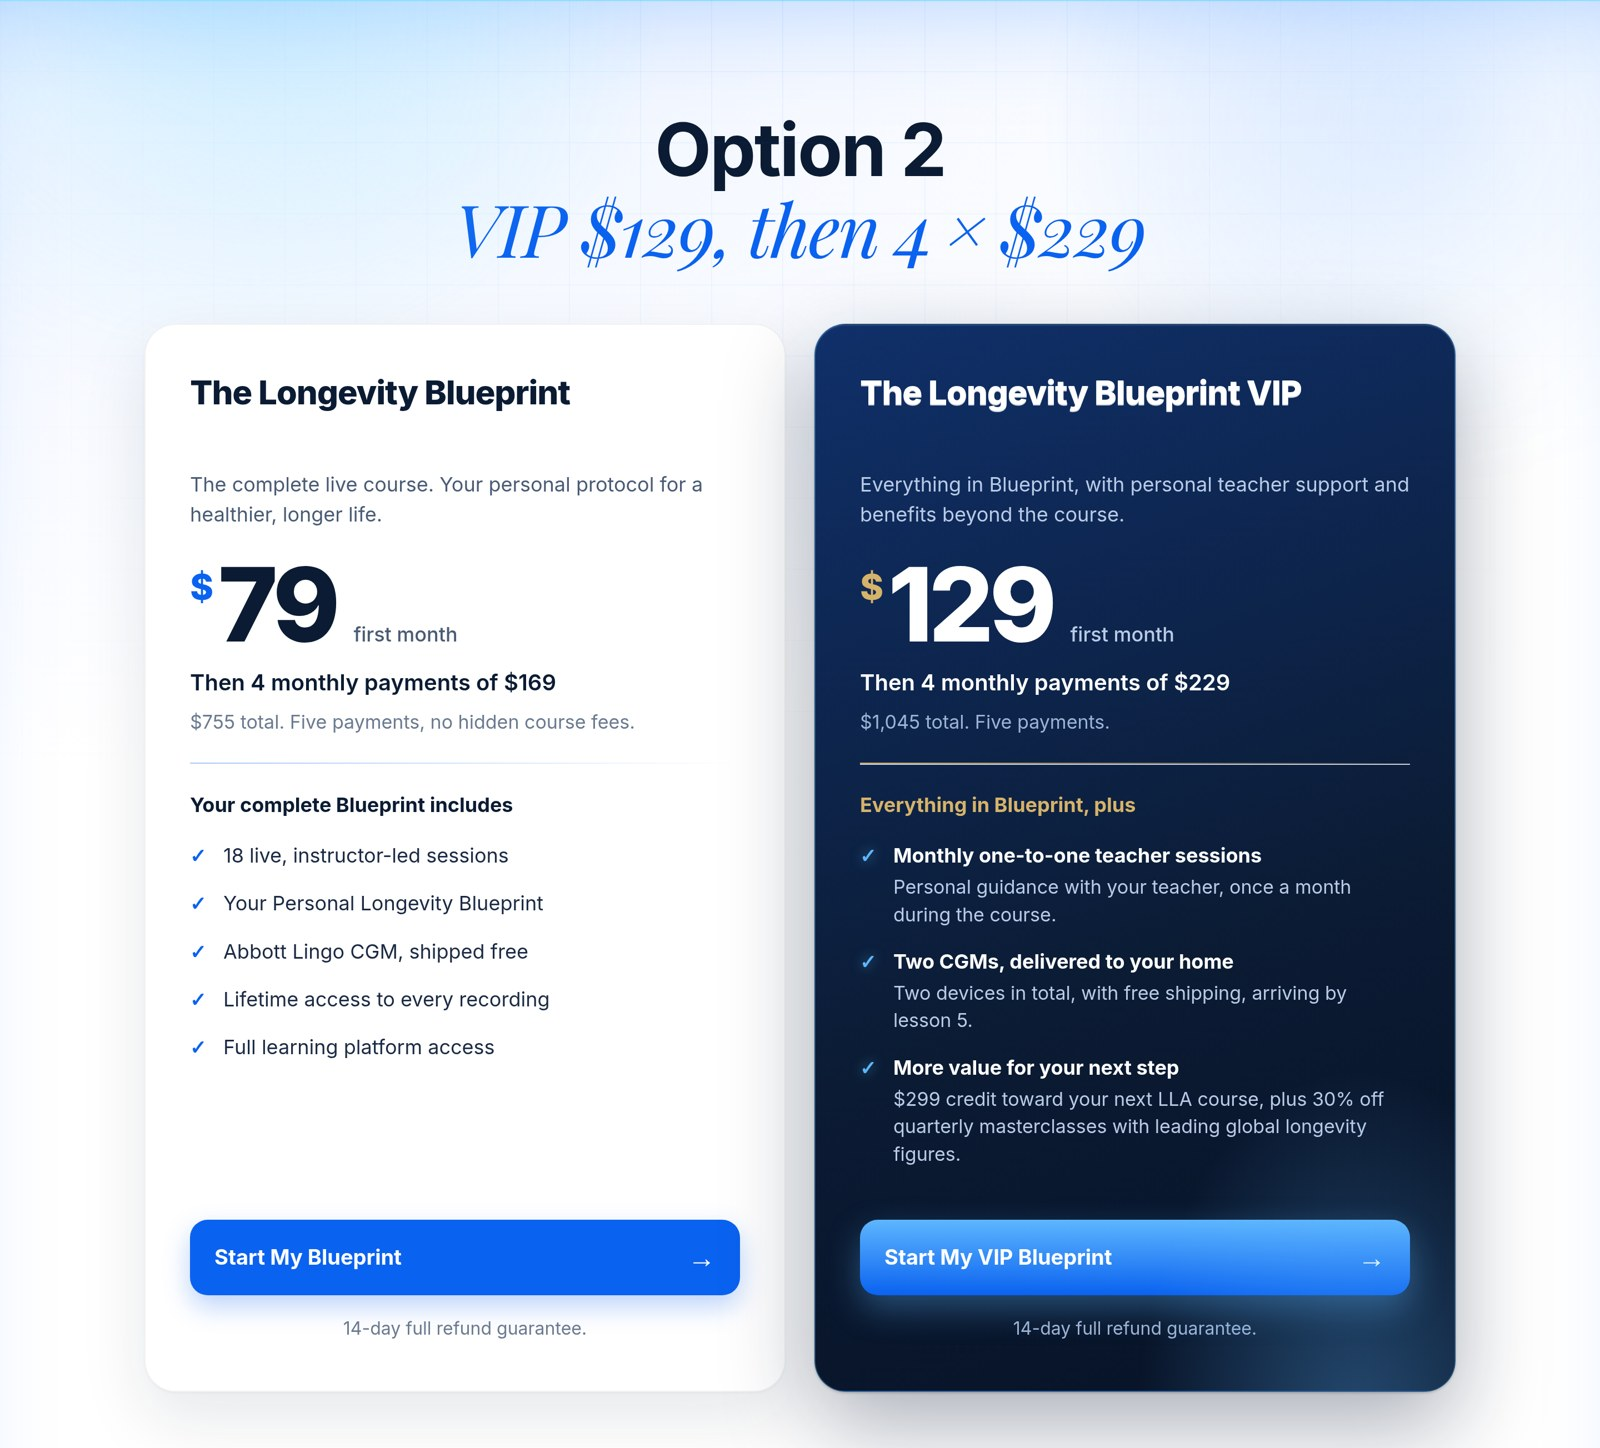
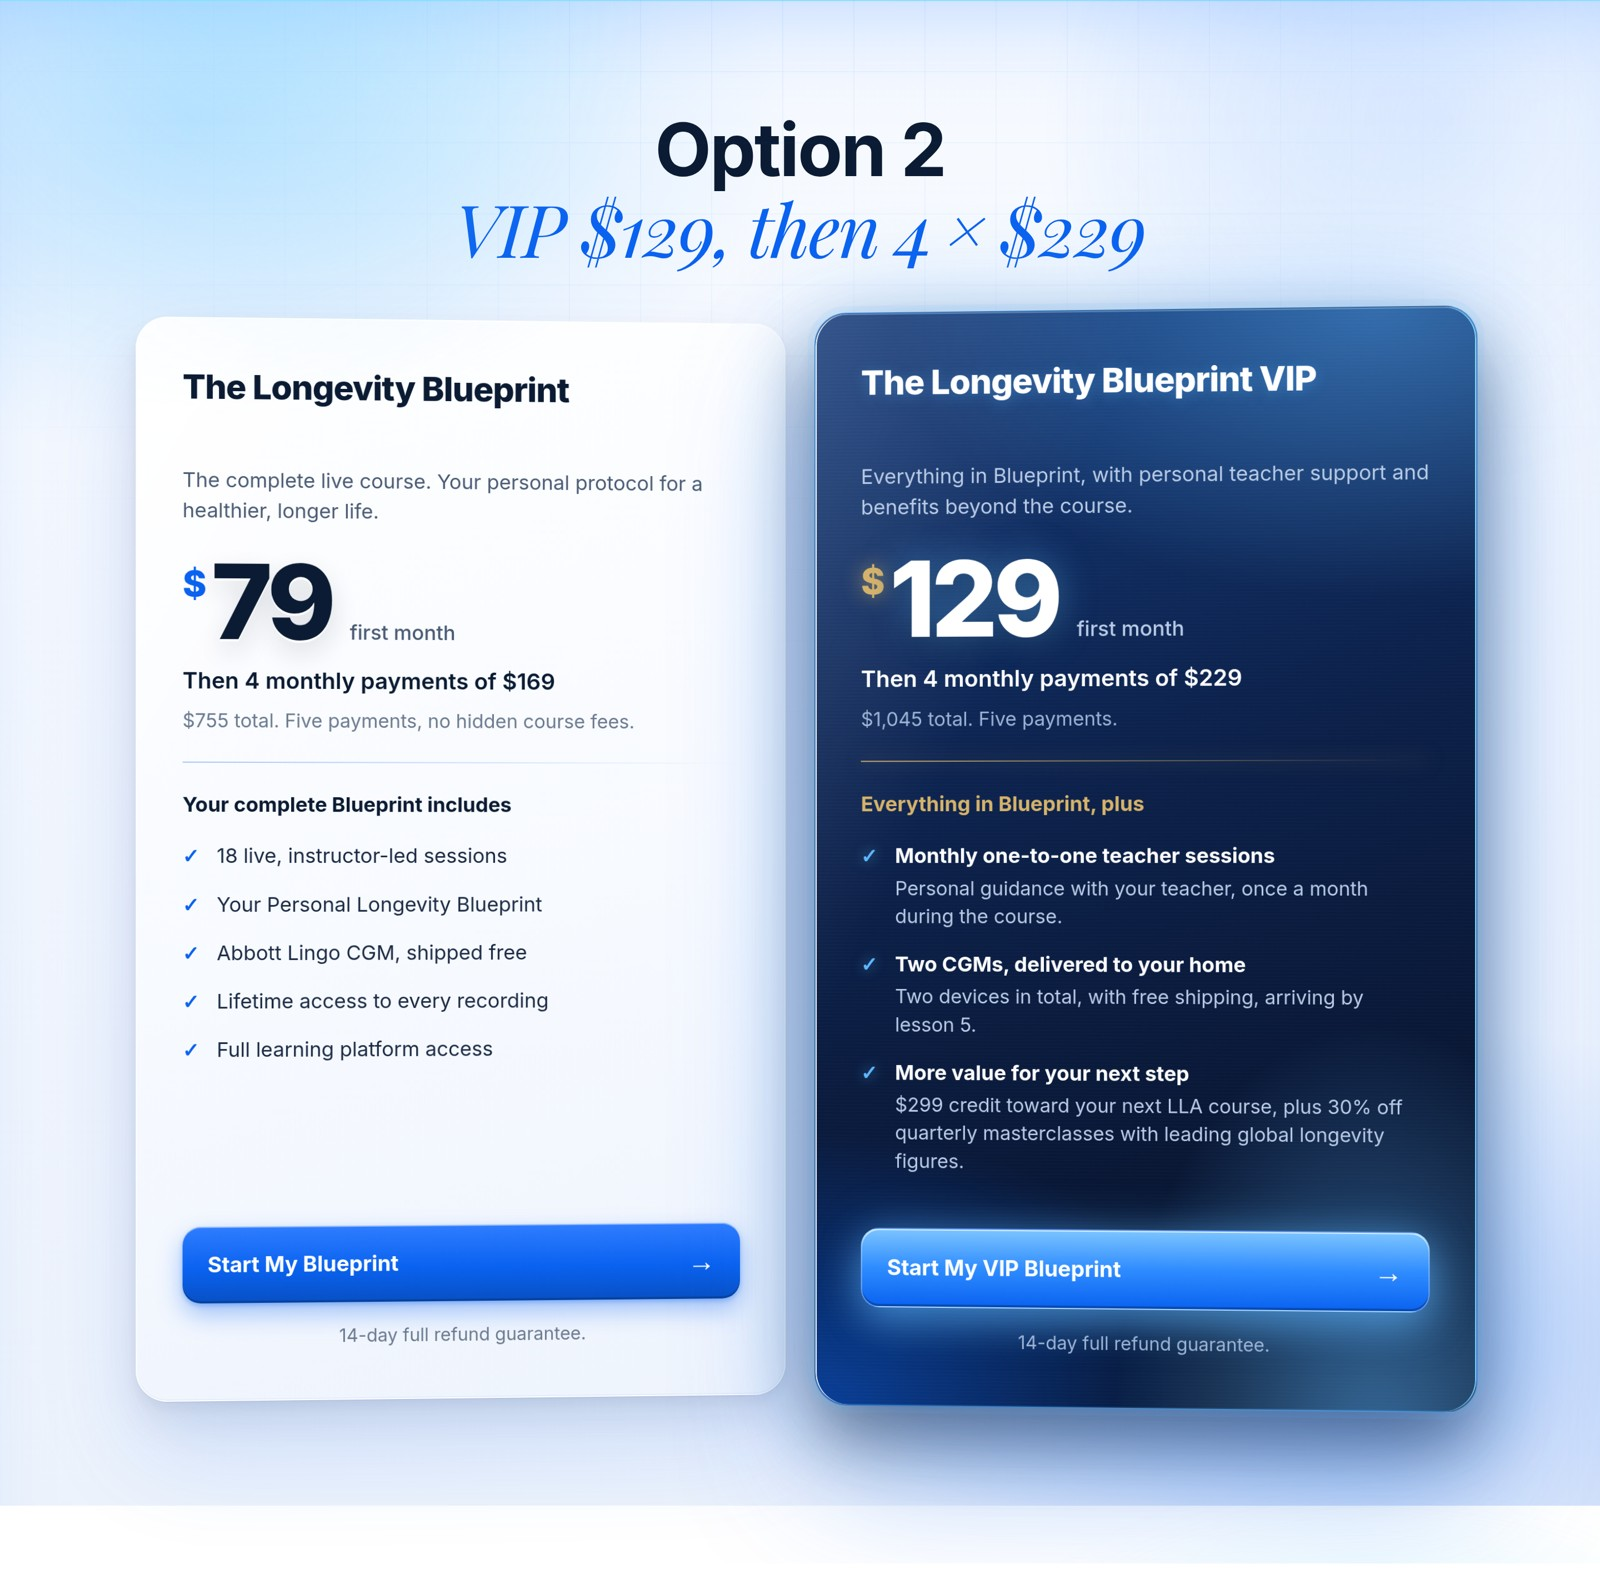
depth pass: perspective, layered light, glow, glass buttons

diff --git a/compare/premium.css b/compare/premium.css
@@ -37,3 +37,55 @@
 #lpRoot .bp-card.bp-vip::before{display:none!important}
 #lpRoot .bp-card.bp-vip{background-image:linear-gradient(160deg,#10306A 0%,#0B1B33 60%,#071226 100%)!important}
 #lpRoot .bp-card .bp-price strong{background:none!important;-webkit-text-fill-color:#0B1B33!important}
+/* v3 depth pass */
+#lpRoot .bp-offer{background:
+ radial-gradient(900px 500px at 12% 8%,rgba(94,182,255,.35) 0%,rgba(94,182,255,0) 60%),
+ radial-gradient(800px 500px at 88% 90%,rgba(10,98,240,.22) 0%,rgba(10,98,240,0) 60%),
+ linear-gradient(180deg,#F7FAFF 0%,#EDF3FC 100%)!important;position:relative}
+#lpRoot .bp-offer .bp-grid{perspective:1800px}
+#lpRoot .bp-card{position:relative;
+ background:linear-gradient(165deg,#FFFFFF 0%,#F7FAFF 55%,#EEF4FD 100%)!important;
+ border:1px solid rgba(255,255,255,.9)!important;
+ box-shadow:
+  inset 0 1px 0 rgba(255,255,255,1),
+  inset 0 -1px 0 rgba(10,98,240,.06),
+  0 1px 1px rgba(11,27,51,.04),
+  0 6px 12px rgba(11,27,51,.05),
+  0 18px 36px rgba(11,27,51,.08),
+  0 48px 90px rgba(10,98,240,.14)!important;
+ transform:rotateY(2.5deg) translateZ(0);transform-origin:right center}
+#lpRoot .bp-card::before{content:"";position:absolute;inset:0;border-radius:inherit;pointer-events:none;
+ background:linear-gradient(120deg,rgba(255,255,255,.95) 0%,rgba(255,255,255,0) 38%),radial-gradient(600px 300px at 20% -10%,rgba(94,182,255,.22),rgba(94,182,255,0) 70%)}
+#lpRoot .bp-card .bp-price strong{text-shadow:0 2px 0 #fff,0 10px 24px rgba(11,27,51,.14)!important}
+#lpRoot .bp-card .bp-button{background:linear-gradient(180deg,#2F7DFF 0%,#0A62F0 55%,#0850C4 100%)!important;
+ box-shadow:inset 0 1px 0 rgba(255,255,255,.45),inset 0 -2px 0 rgba(0,0,0,.18),0 10px 22px rgba(10,98,240,.35),0 2px 4px rgba(10,98,240,.3)!important}
+/* VIP */
+#lpRoot .bp-card.bp-vip{transform:rotateY(-2.5deg) translateZ(0) scale(1.02);transform-origin:left center;
+ background:
+  radial-gradient(700px 420px at 85% 0%,rgba(94,182,255,.45) 0%,rgba(94,182,255,0) 60%),
+  radial-gradient(600px 400px at 0% 100%,rgba(10,98,240,.55) 0%,rgba(10,98,240,0) 60%),
+  linear-gradient(160deg,#143A7A 0%,#0C2049 45%,#070F22 100%)!important;
+ border:1px solid rgba(94,182,255,.55)!important;
+ box-shadow:
+  inset 0 1px 0 rgba(255,255,255,.22),
+  inset 0 0 0 1px rgba(94,182,255,.12),
+  0 0 0 6px rgba(94,182,255,.10),
+  0 30px 60px rgba(7,15,34,.45),
+  0 60px 120px rgba(10,98,240,.35),
+  0 0 90px rgba(94,182,255,.30)!important}
+#lpRoot .bp-card.bp-vip::before{display:block!important;content:"";position:absolute;inset:0;border-radius:inherit;pointer-events:none;
+ background:linear-gradient(115deg,rgba(255,255,255,.14) 0%,rgba(255,255,255,0) 30%),
+ repeating-linear-gradient(0deg,rgba(255,255,255,.015) 0 1px,transparent 1px 3px)}
+#lpRoot .bp-card.bp-vip::after{inset:auto -25% -45% auto;width:80%;height:80%;background:radial-gradient(closest-side,rgba(94,182,255,.55),rgba(94,182,255,0))}
+#lpRoot .bp-card.bp-vip h3{text-shadow:0 2px 12px rgba(94,182,255,.35)}
+#lpRoot .bp-card.bp-vip .bp-price strong{text-shadow:0 0 30px rgba(94,182,255,.55),0 6px 20px rgba(0,0,0,.4)!important}
+#lpRoot .bp-card.bp-vip .bp-price sup{text-shadow:0 0 18px rgba(214,179,106,.7)}
+#lpRoot .bp-card.bp-vip .bp-rule{box-shadow:0 0 16px rgba(214,179,106,.6)}
+#lpRoot .bp-card.bp-vip .bp-button{background:linear-gradient(180deg,#7CC4FF 0%,#2F8CFF 50%,#0A62F0 100%)!important;
+ box-shadow:inset 0 1px 0 rgba(255,255,255,.7),inset 0 -2px 0 rgba(0,0,0,.25),0 14px 34px rgba(94,182,255,.5),0 0 40px rgba(94,182,255,.35)!important;border:1px solid rgba(255,255,255,.35)!important}
+#lpRoot .bp-card .bp-features li{position:relative}
+#lpRoot .bp-card::before,#lpRoot .bp-card::after{z-index:0}
+#lpRoot .bp-card>*{position:relative;z-index:1}
+#lpRoot .bp-card:not(.bp-vip)::before{background:linear-gradient(120deg,rgba(255,255,255,.7) 0%,rgba(255,255,255,0) 30%),radial-gradient(500px 260px at 15% -10%,rgba(94,182,255,.16),rgba(94,182,255,0) 70%)}
+#lpRoot .bp-card .bp-price strong{color:#0B1B33!important;-webkit-text-fill-color:#0B1B33!important}
+#lpRoot .bp-card.bp-vip .bp-price strong{-webkit-text-fill-color:#FFFFFF!important}

diff --git a/options/index.html b/options/index.html
@@ -1780,7 +1780,7 @@ body.lla-em-open #et-bumpyard-widget{display:none!important}
   html body#lpRoot #hero .pdp-cine-sub{font-family:'Inter',sans-serif!important;font-style:normal!important;text-transform:none!important}
 }
 </style>
-<link rel="stylesheet" href="../relaunch.css?v=vip199"><style id="opt-only">body>*:not(section.bp-offer):not(script):not(style){display:none!important}body>section.bp-offer{display:block!important}.bp-foot{display:none!important}[class^="lla-cta"],.lla-cta,#llaCta,.lla-sticky-cta,.lla-float-cta,#llaFloatCta,[id^="llaFloat"],.lla-float-cta--home{display:none!important;visibility:hidden!important}</style><link rel="stylesheet" href="../compare/premium.css?v=p2"></head>
+<link rel="stylesheet" href="../relaunch.css?v=vip199"><style id="opt-only">body>*:not(section.bp-offer):not(script):not(style){display:none!important}body>section.bp-offer{display:block!important}.bp-foot{display:none!important}[class^="lla-cta"],.lla-cta,#llaCta,.lla-sticky-cta,.lla-float-cta,#llaFloatCta,[id^="llaFloat"],.lla-float-cta--home{display:none!important;visibility:hidden!important}</style><link rel="stylesheet" href="../compare/premium.css?v=p4"></head>
 <body id="lpRoot">
 <!-- Google Tag Manager (noscript) -->
 

diff --git a/compare/index.html b/compare/index.html
@@ -1,4 +1,4 @@
 <!doctype html><html lang="en"><head><meta charset="utf-8"><meta name="viewport" content="width=device-width,initial-scale=1"><meta name="robots" content="noindex"><title>Blueprint VIP pricing · 3 options</title>
 <style>body{margin:0;background:#F3F7FC;font-family:-apple-system,Inter,sans-serif;color:#0B1B33}.w{max-width:1100px;margin:0 auto;padding:16px 10px 40px}h1{font-size:22px;margin:6px 6px 14px;letter-spacing:-.3px}img{width:100%;display:block;border-radius:14px;box-shadow:0 6px 24px rgba(11,27,51,.12);margin-bottom:18px;background:#fff}</style></head>
 <body><div class="w"><h1>Blueprint VIP pricing · 3 options</h1>
-<img src="option-1.jpg?v=2" alt="Option 1: VIP $99, then 4 × $199"><img src="option-2.jpg?v=2" alt="Option 2: VIP $129, then 4 × $229"><img src="option-3.jpg?v=2" alt="Option 3: VIP $99, then 4 × $229"></div></body></html>
+<img src="option-1.jpg?v=3" alt="Option 1: VIP $99, then 4 × $199"><img src="option-2.jpg?v=3" alt="Option 2: VIP $129, then 4 × $229"><img src="option-3.jpg?v=3" alt="Option 3: VIP $99, then 4 × $229"></div></body></html>
